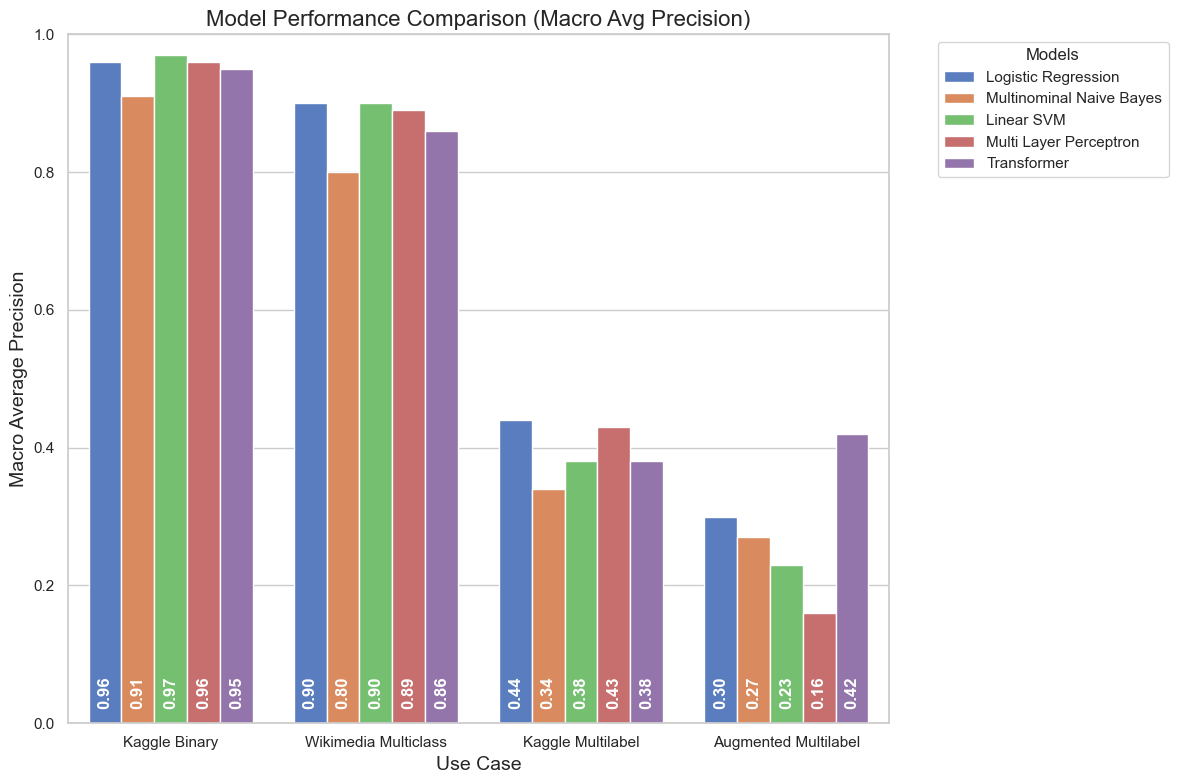
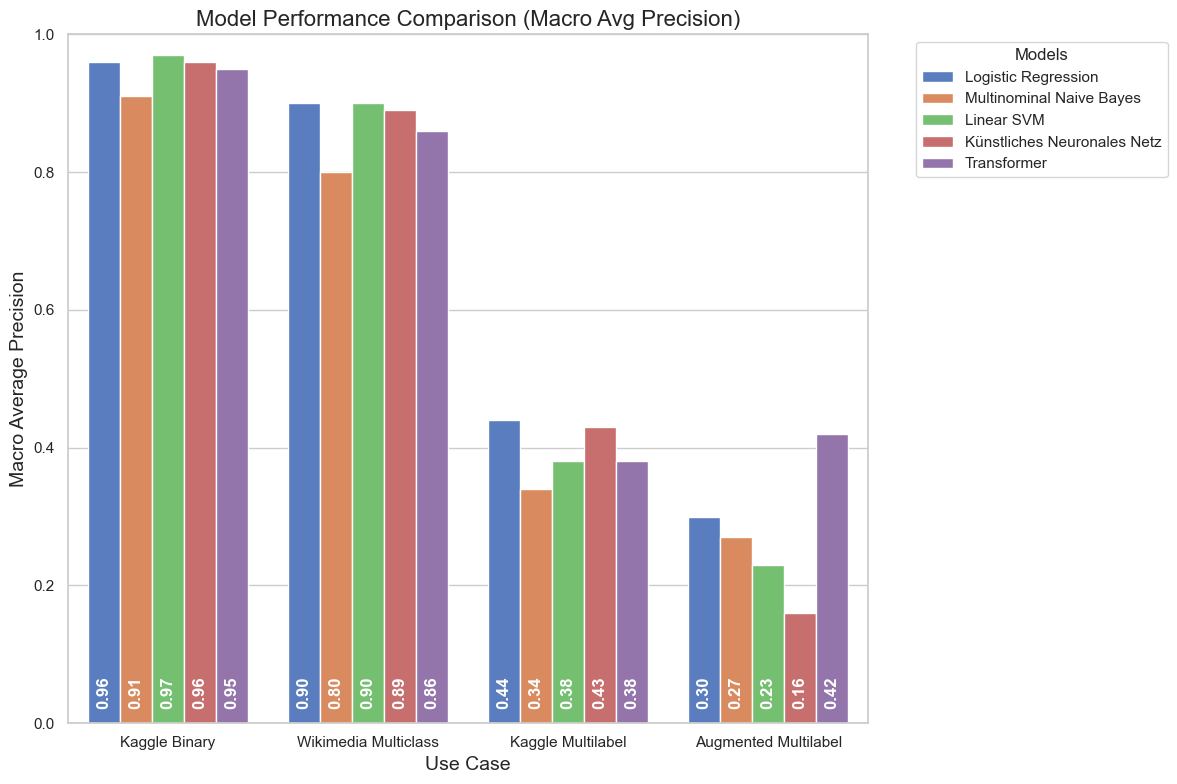
renamed KNN

Changed region(s): [[0.2447, 0.0306, 0.9788, 0.9796], [0.0612, 0.0918, 0.2141, 0.9796], [0.1529, 0.0, 0.6423, 0.0612]]

diff --git a/scripts/generate_graph.py b/scripts/generate_graph.py
@@ -90,72 +90,72 @@ if __name__ == "__main__":
     # Macro Average Precision
     precision_data = {
         "Logistic Regression": {
-            # "Kaggle Binary": 0.96,
-            # "Wikimedia Multiclass": 0.90,
+            "Kaggle Binary": 0.96,
+            "Wikimedia Multiclass": 0.90,
             "Kaggle Multilabel": 0.44,
-            "Augmented Multilabel": 0.30,
+            # "Augmented Multilabel": 0.30,
         },
         "Multinominal Naive Bayes": {
-            # "Kaggle Binary": 0.91,
-            # "Wikimedia Multiclass": 0.80,
+            "Kaggle Binary": 0.91,
+            "Wikimedia Multiclass": 0.80,
             "Kaggle Multilabel": 0.34,
-            "Augmented Multilabel": 0.27,
+            # "Augmented Multilabel": 0.27,
         },
         "Linear SVM": {
-            # "Kaggle Binary": 0.97,
-            # "Wikimedia Multiclass": 0.90,
+            "Kaggle Binary": 0.97,
+            "Wikimedia Multiclass": 0.90,
             "Kaggle Multilabel": 0.38,
-            "Augmented Multilabel": 0.23,
+            # "Augmented Multilabel": 0.23,
         },
-        "Multi Layer Perceptron": {
-            # "Kaggle Binary": 0.96,
-            # "Wikimedia Multiclass": 0.89,
+        "Künstliches Neuronales Netz": {
+            "Kaggle Binary": 0.96,
+            "Wikimedia Multiclass": 0.89,
             "Kaggle Multilabel": 0.43,
-            "Augmented Multilabel": 0.16,
+            # "Augmented Multilabel": 0.16,
         },
         "Transformer": {
-            # "Kaggle Binary": 0.95,
-            # "Wikimedia Multiclass": 0.86,
+            "Kaggle Binary": 0.95,
+            "Wikimedia Multiclass": 0.86,
             "Kaggle Multilabel": 0.38,
-            "Augmented Multilabel": 0.42,
+            # "Augmented Multilabel": 0.42,
         },
     }
     # Macro Average Recall
     recall_data = {
         "Logistic Regression": {
-            # "Kaggle Binary": 0.96,
-            # "Wikimedia Multiclass": 0.90,
+            "Kaggle Binary": 0.96,
+            "Wikimedia Multiclass": 0.90,
             "Kaggle Multilabel": 0.32,
-            "Augmented Multilabel": 0.15,
+            # "Augmented Multilabel": 0.15,
         },
         "Multinominal Naive Bayes": {
-            # "Kaggle Binary": 0.91,
-            # "Wikimedia Multiclass": 0.80,
+            "Kaggle Binary": 0.91,
+            "Wikimedia Multiclass": 0.80,
             "Kaggle Multilabel": 0.65,
-            "Augmented Multilabel": 0.13,
+            # "Augmented Multilabel": 0.13,
         },
         "Linear SVM": {
-            # "Kaggle Binary": 0.96,
-            # "Wikimedia Multiclass": 0.90,
+            "Kaggle Binary": 0.96,
+            "Wikimedia Multiclass": 0.90,
             "Kaggle Multilabel": 0.38,
-            "Augmented Multilabel": 0.25,
+            # "Augmented Multilabel": 0.25,
         },
-        "Multi Layer Perceptron": {
-            # "Kaggle Binary": 0.96,
-            # "Wikimedia Multiclass": 0.89,
+        "Künstliches Neuronales Netz": {
+            "Kaggle Binary": 0.96,
+            "Wikimedia Multiclass": 0.89,
             "Kaggle Multilabel": 0.35,
-            "Augmented Multilabel": 0.20,
+            # "Augmented Multilabel": 0.20,
         },
         "Transformer": {
-            # "Kaggle Binary": 0.95,
-            # "Wikimedia Multiclass": 0.86,
+            "Kaggle Binary": 0.95,
+            "Wikimedia Multiclass": 0.86,
             "Kaggle Multilabel": 0.46,
-            "Augmented Multilabel": 0.50,
+            # "Augmented Multilabel": 0.50,
         },
     }
 
     visualizer = ModelPerformanceVisualizer()
-    # visualizer.set_data(precision_data, "Precision")
-    visualizer.set_data(recall_data, "Recall")
+    visualizer.set_data(precision_data, "Precision")
+    # visualizer.set_data(recall_data, "Recall")
     visualizer.bar_plot()
 #
